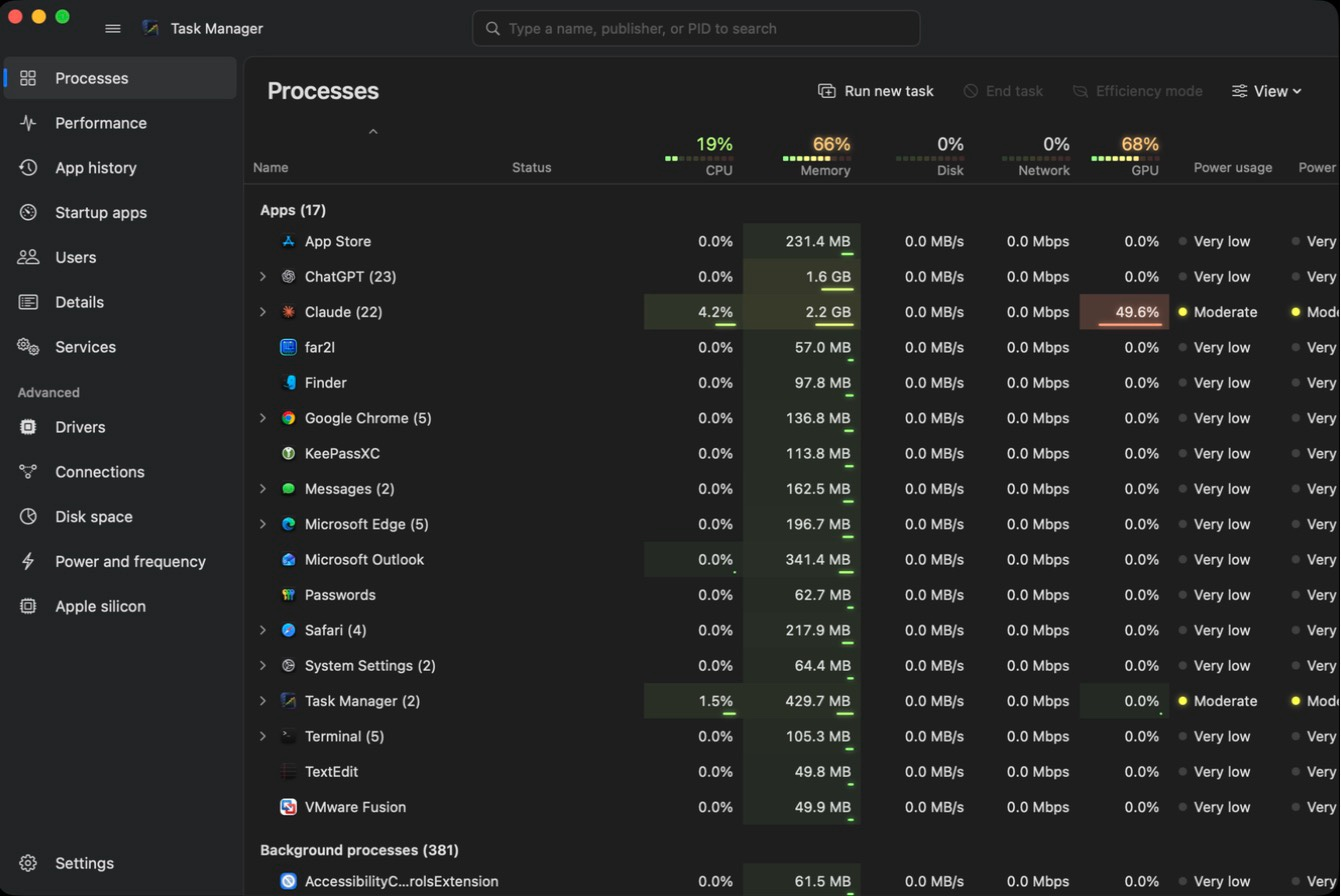
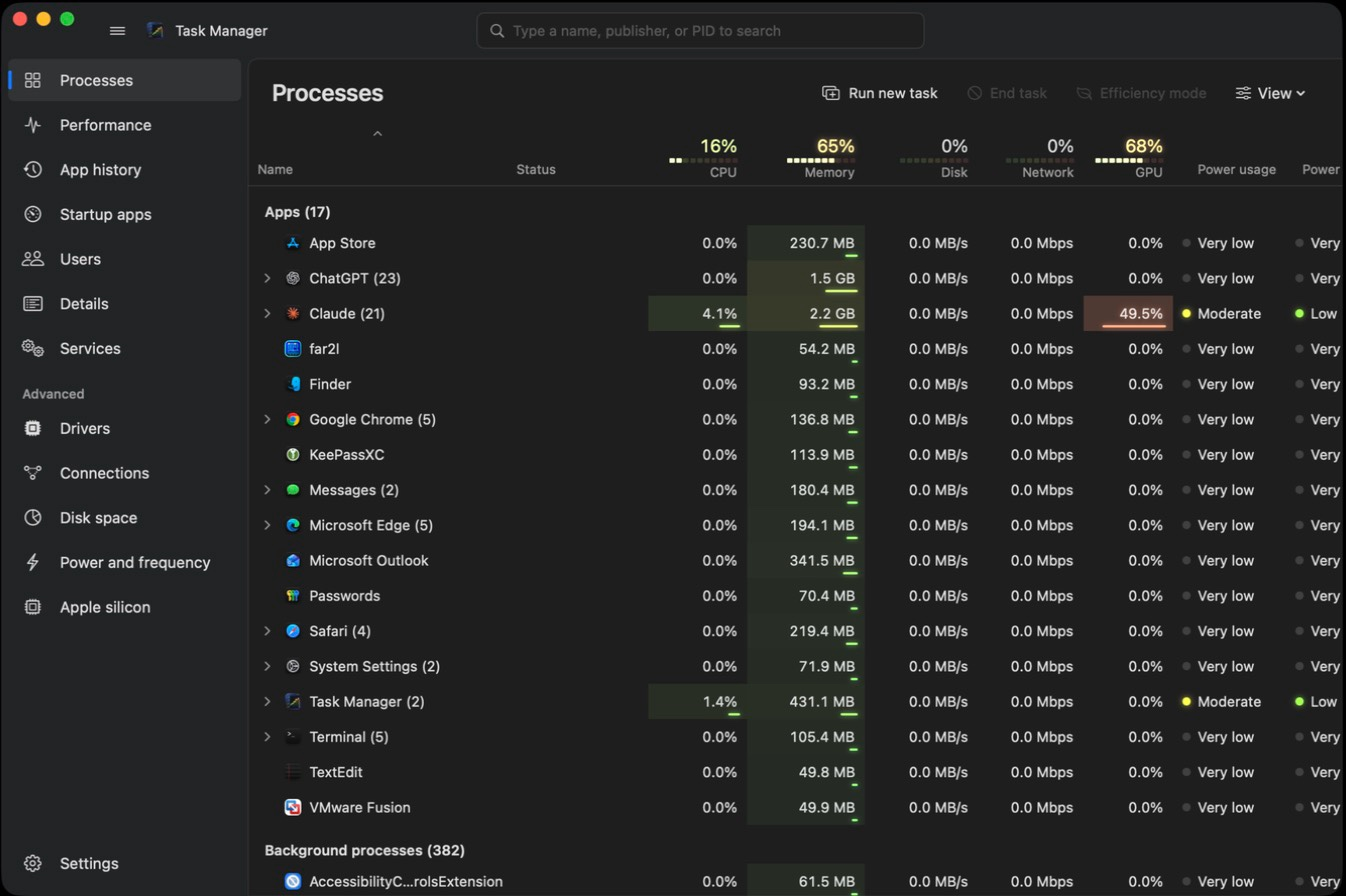
Show every page with Extended graphs in the screenshots
20 screenshots with Settings › Extended graphs (and advanced readings)
on: every Performance tile, the summary window, the pages without graphs,
the Advanced pages and the settings. The tour gets a full Extended graphs
section and the README a second thumbnail grid. Same redactions as before,
plus server host names on Connections.

diff --git a/README.md b/README.md
@@ -129,9 +129,9 @@ grey bars.
     <td><a href="docs/screenshots.md#settings"><img src="docs/images/settings.jpg" alt="Settings"></a><br><sub>Settings</sub></td>
   </tr>
   <tr>
-    <td><a href="docs/screenshots.md#extended-graphs"><img src="docs/images/extended-performance.jpg" alt="Extended graphs"></a><br><sub>Extended graphs</sub></td>
-    <td><a href="docs/screenshots.md#extended-graphs"><img src="docs/images/extended-processes.jpg" alt="Processes with Extended graphs"></a><br><sub>Processes, Extended graphs</sub></td>
     <td><a href="docs/screenshots.md#about-and-license"><img src="docs/images/about.jpg" alt="About Task Manager"></a><br><sub>About</sub></td>
+    <td><a href="docs/screenshots.md#settings"><img src="docs/images/settings-other.jpg" alt="Settings: other options"></a><br><sub>Settings: other options</sub></td>
+    <td><a href="docs/screenshots.md#about-and-license"><img src="docs/images/about-license.jpg" alt="License"></a><br><sub>License</sub></td>
   </tr>
   <tr>
     <td><a href="docs/screenshots.md#drivers"><img src="docs/images/advanced-drivers.jpg" alt="Advanced: Drivers"></a><br><sub>Advanced: Drivers</sub></td>
@@ -141,7 +141,35 @@ grey bars.
   <tr>
     <td><a href="docs/screenshots.md#power-and-frequency"><img src="docs/images/advanced-power.jpg" alt="Advanced: Power and frequency"></a><br><sub>Advanced: Power and frequency</sub></td>
     <td><a href="docs/screenshots.md#apple-silicon"><img src="docs/images/advanced-apple-silicon.jpg" alt="Advanced: Apple silicon"></a><br><sub>Advanced: Apple silicon</sub></td>
-    <td><a href="docs/screenshots.md#about-and-license"><img src="docs/images/about-license.jpg" alt="License"></a><br><sub>License</sub></td>
+    <td><a href="docs/screenshots.md#settings"><img src="docs/images/settings.jpg" alt="Settings"></a><br><sub>Settings</sub></td>
+  </tr>
+</table>
+
+### With Extended graphs
+
+The same app with Settings › Extended graphs on: glowing curves coloured by level, LED meters, status lights and
+level bars on every page. All of them are in the [tour](docs/screenshots.md#extended-graphs).
+
+<table>
+  <tr>
+    <td width="33%"><a href="docs/screenshots.md#extended-performance"><img src="docs/images/extended-performance-cpu.jpg" alt="Extended graphs: CPU"></a><br><sub>CPU</sub></td>
+    <td width="33%"><a href="docs/screenshots.md#extended-performance"><img src="docs/images/extended-performance-memory.jpg" alt="Extended graphs: Memory"></a><br><sub>Memory</sub></td>
+    <td width="33%"><a href="docs/screenshots.md#extended-performance"><img src="docs/images/extended-performance-gpu.jpg" alt="Extended graphs: GPU"></a><br><sub>GPU</sub></td>
+  </tr>
+  <tr>
+    <td><a href="docs/screenshots.md#extended-performance"><img src="docs/images/extended-performance-disk.jpg" alt="Extended graphs: Disk"></a><br><sub>Disk</sub></td>
+    <td><a href="docs/screenshots.md#extended-performance"><img src="docs/images/extended-performance-wifi.jpg" alt="Extended graphs: Wi-Fi"></a><br><sub>Wi-Fi</sub></td>
+    <td><a href="docs/screenshots.md#extended-performance"><img src="docs/images/extended-performance-battery.jpg" alt="Extended graphs: Battery"></a><br><sub>Battery</sub></td>
+  </tr>
+  <tr>
+    <td><a href="docs/screenshots.md#extended-processes"><img src="docs/images/extended-processes.jpg" alt="Extended graphs: Processes"></a><br><sub>Processes</sub></td>
+    <td><a href="docs/screenshots.md#extended-pages-without-graphs"><img src="docs/images/extended-app-history.jpg" alt="Extended graphs: App history"></a><br><sub>App history</sub></td>
+    <td><a href="docs/screenshots.md#extended-pages-without-graphs"><img src="docs/images/extended-startup-apps.jpg" alt="Extended graphs: Startup apps"></a><br><sub>Startup apps</sub></td>
+  </tr>
+  <tr>
+    <td><a href="docs/screenshots.md#extended-advanced-pages"><img src="docs/images/extended-advanced-power.jpg" alt="Extended graphs: Power and frequency"></a><br><sub>Power and frequency</sub></td>
+    <td><a href="docs/screenshots.md#extended-advanced-pages"><img src="docs/images/extended-advanced-apple-silicon.jpg" alt="Extended graphs: Apple silicon"></a><br><sub>Apple silicon</sub></td>
+    <td><a href="docs/screenshots.md#extended-graphs"><img src="docs/images/extended-settings.jpg" alt="Extended graphs settings"></a><br><sub>Extended graphs settings</sub></td>
   </tr>
 </table>
 

diff --git a/docs/screenshots.md b/docs/screenshots.md
@@ -109,15 +109,84 @@ Advanced pages, with the version line at the bottom.
 
 ## Extended graphs
 
-An optional graph style (Settings › Extended graphs): smooth glowing curves coloured by level, LED meters and a
-"now" marker. With Show advanced readings also on, the CPU page adds the clock speed per cluster and temperature,
-and an NPU tile appears.
+An optional style for the whole app, switched on in Settings › Extended graphs. Graphs become smooth glowing curves
+coloured by level (green when quiet, through yellow, to red when busy), with LED meters, a "now" marker at the right
+edge and smooth motion between updates. Pages without graphs get glowing values, level bars and status lights.
+Saturation, visual bloom, HDR (brighter than white on HDR and XDR displays) and smooth motion are adjustable.
 
-![Performance with Extended graphs and advanced readings](images/extended-performance.jpg)
+The screenshots in this section also have **Show advanced readings** on, which adds CPU speed per cluster,
+temperatures and the NPU tile.
 
-The Processes page gets LED meters in the header and level bars in each cell.
+![Settings: Extended graphs options](images/extended-settings.jpg)
+
+### Extended: Processes
+
+LED meters under each column total, and a level bar in every busy cell.
 
 ![Processes with Extended graphs](images/extended-processes.jpg)
+
+### Extended: Performance
+
+The LED meter above each graph shows the current value; the curve's colour follows its level.
+
+![Extended graphs: CPU](images/extended-performance-cpu.jpg)
+
+The memory composition bar becomes an LED strip with a colour per type.
+
+![Extended graphs: Memory](images/extended-performance-memory.jpg)
+
+![Extended graphs: Disk](images/extended-performance-disk.jpg)
+
+![Extended graphs: Wi-Fi](images/extended-performance-wifi.jpg)
+
+![Extended graphs: GPU](images/extended-performance-gpu.jpg)
+
+The NPU tile (Show advanced readings) shows Neural Engine power. On this Mac macOS only gives that reading to
+administrators, and the page says so.
+
+![Extended graphs: NPU](images/extended-performance-npu.jpg)
+
+The battery's charge history, hourly use and power all glow too.
+
+![Extended graphs: Battery](images/extended-performance-battery.jpg)
+
+The floating graph summary window (double-click a graph, or Summary view) uses the same style.
+
+![Extended graphs: summary view](images/extended-summary-view.jpg)
+
+### Extended: pages without graphs
+
+App history colours each value by how large it is, here with Settings › Show history for all processes on.
+
+![Extended graphs: App history](images/extended-app-history.jpg)
+
+Startup apps and Services get status lights.
+
+![Extended graphs: Startup apps](images/extended-startup-apps.jpg)
+
+![Extended graphs: Services](images/extended-services.jpg)
+
+Users and Details get heat cells, level bars and glowing values.
+
+![Extended graphs: Users](images/extended-users.jpg)
+
+![Extended graphs: Details](images/extended-details.jpg)
+
+### Extended: Advanced pages
+
+The summary cards get LED meters, and the Apple silicon graphs glow like the Performance page.
+
+![Extended graphs: Drivers](images/extended-advanced-drivers.jpg)
+
+![Extended graphs: Connections](images/extended-advanced-connections.jpg)
+
+![Extended graphs: Disk space](images/extended-advanced-disk-space.jpg)
+
+Power and frequency adds a Level column with an LED meter for every sensor.
+
+![Extended graphs: Power and frequency](images/extended-advanced-power.jpg)
+
+![Extended graphs: Apple silicon](images/extended-advanced-apple-silicon.jpg)
 
 ## Advanced pages
 
